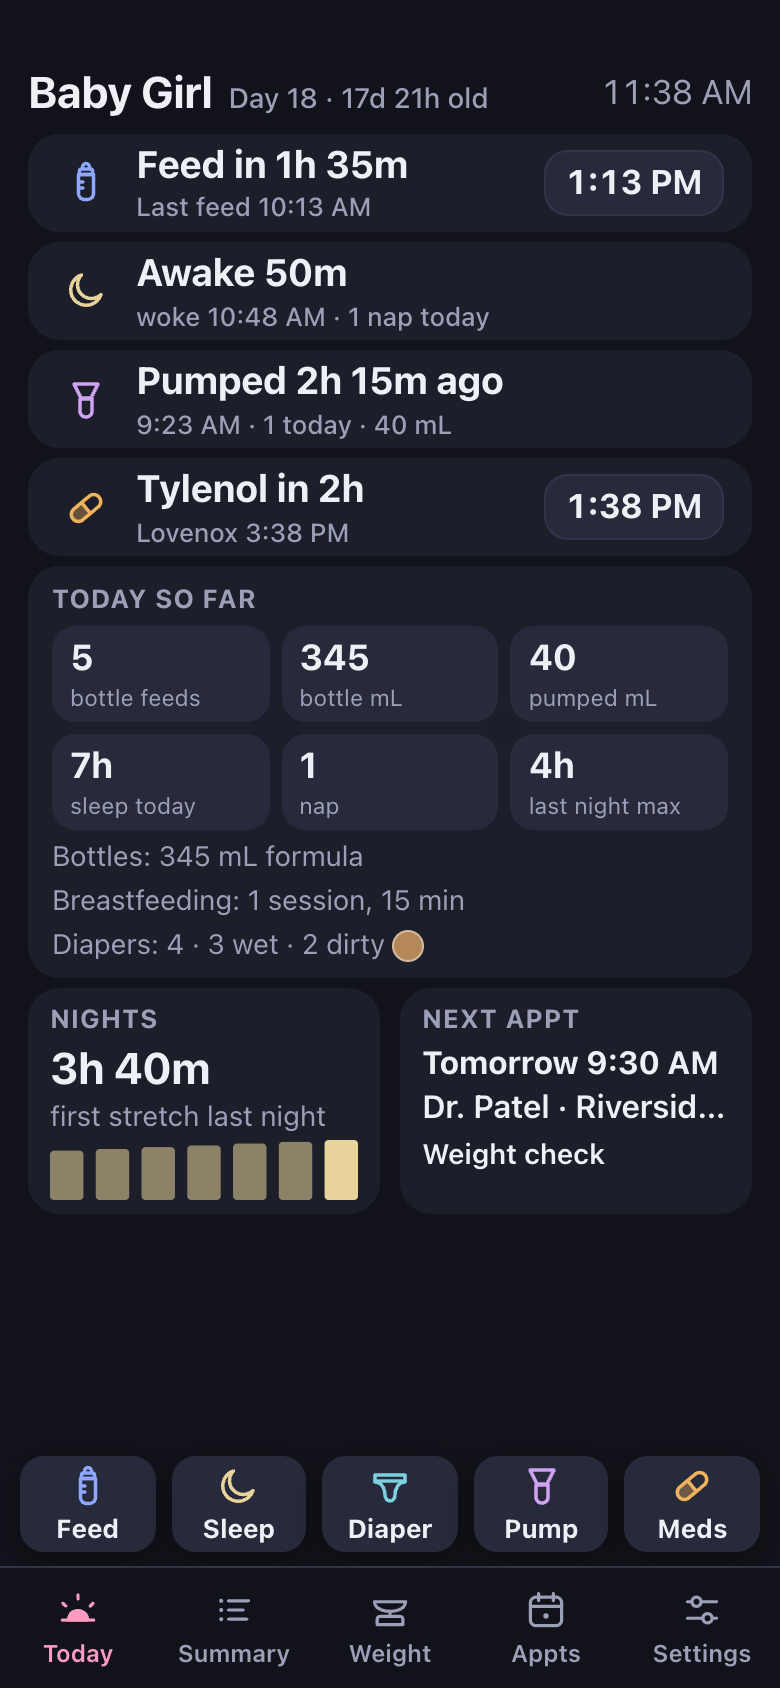
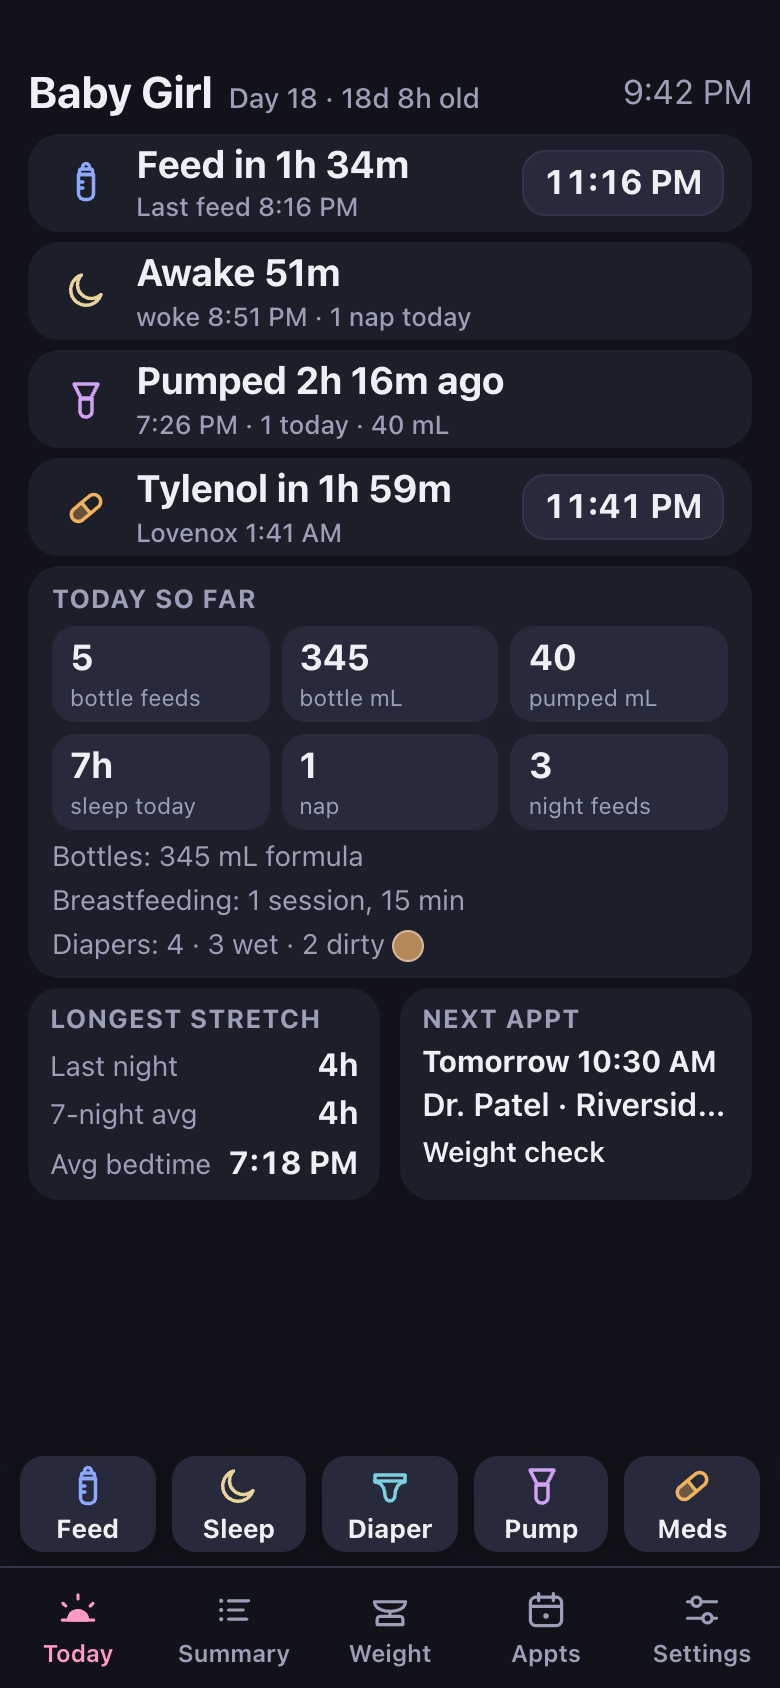
Nights card: last night, 7-night average, average bedtime; night feeds tile; seed honours DST; release notes 1.25

diff --git a/src/components/SleepDiary.tsx b/src/components/SleepDiary.tsx
@@ -99,27 +99,23 @@ export function SleepDiary() {
   );
 }
 
-/** Today's small card: the first stretch of each of the last seven finished nights. */
+/** Today's trend card: last night's longest stretch, its 7-night average, and the average bedtime. */
 export function NightsCard({ onOpen }: { onOpen: () => void }) {
   const { entries, settings } = useStore();
   const now = useNow(60_000);
   const win = settings.night_sleep ?? DEFAULT_NIGHT_SLEEP;
-  const keys = nightsBack(lastCompletedNight(now, win), 7).reverse();
-  const vals = keys.map((k) => nightStats(entries, k, now).firstStretchMs);
-  const latest = vals[vals.length - 1];
-  const max = Math.max(...vals, 1);
-  const W = 150, H = 30, gap = 6, bw = (W - gap * (keys.length - 1)) / keys.length;
+  const last = lastCompletedNight(now, win);
+  const keys = nightsBack(last, 7);
+  const longest = keys.map((k) => nightStats(entries, k, now)).filter((s) => s.bedtime !== null).map((s) => s.longestMs);
+  const lastNight = nightStats(entries, last, now).longestMs;
+  const avg = longest.length ? longest.reduce((a, b) => a + b, 0) / longest.length : 0;
+  const bed = weekSummary(entries, keys, now, win).bedtimeMin;
   return (
-    <div className="card compact pressable" onClick={onOpen}>
-      <h3>Nights</h3>
-      <div style={{ fontSize: 22, fontWeight: 700, lineHeight: 1.1 }}>{latest ? fmtDur(latest) : '—'}</div>
-      <div className="muted small">first stretch last night</div>
-      <svg width="100%" viewBox={`0 0 ${W} ${H}`} preserveAspectRatio="none" aria-label="First stretch of each of the last seven nights" role="img" style={{ display: 'block', height: H }}>
-        {vals.map((v, i) => {
-          const h = v ? Math.max(3, (v / max) * H) : 2;
-          return <rect key={keys[i]} x={i * (bw + gap)} y={H - h} width={bw} height={h} rx={2} fill={v ? 'var(--t-sleep)' : 'var(--border)'} opacity={i === vals.length - 1 ? 1 : 0.55} />;
-        })}
-      </svg>
+    <div className="card compact pressable nights" onClick={onOpen}>
+      <h3>Longest stretch</h3>
+      <div className="kv"><span>Last night</span><b>{lastNight ? fmtDur(lastNight) : '—'}</b></div>
+      <div className="kv"><span>7-night avg</span><b>{avg ? fmtDur(avg) : '—'}</b></div>
+      <div className="kv"><span>Avg bedtime</span><b>{bed != null ? fmtEveningMinutes(bed) : '—'}</b></div>
     </div>
   );
 }

diff --git a/docs/release-notes/index.html b/docs/release-notes/index.html
@@ -90,7 +90,7 @@
     <h1>bébé <span>tracker</span></h1>
     <p class="lede">A shared logbook for a newborn's feeds, diapers, pumping and mom's meds. Two phones, one live dataset, built for one-handed use at 3 am. This page follows how it changed over its first ten days.</p>
     <div class="facts">
-      <span><b>62</b> releases</span>
+      <span><b>63</b> releases</span>
       <span><b>58</b> days</span>
       <span><b>5</b> tabs</span>
       <span><b>45</b> automated tests</span>
@@ -537,6 +537,20 @@
         <div class="shots">
           <figure class="phone"><div class="screen"><img src="shots/sheet-wake.png" alt="The Woke up sheet: fell asleep 9:26 PM, Nap or Night, woke up now, slept 10m, and a Woke up button." loading="lazy"></div><figcaption><b>Woke up</b>Both times, one button.</figcaption></figure>
           <figure class="phone"><div class="screen"><img src="shots/sheet-feed.png" alt="The Feed sheet with Formula selected and 100 mL already filled in, with chips from 90 to 130 mL." loading="lazy"></div><figcaption><b>Feed</b>Starts at 100 mL.</figcaption></figure>
+        </div>
+      </div>
+    </article>
+
+    <article class="release">
+      <div class="stamp"><div class="ver">1.25</div><div class="when">Sun Nov 8 · night</div></div>
+      <div class="body">
+        <h2>Nights at a glance</h2>
+        <ul class="notes">
+          <li><b>A trend card on Today.</b> The Nights card now reads like a scoreboard: last night's longest stretch, the average over the last seven nights, and the average bedtime. Tap it for the full diary.</li>
+          <li><b>No double counting.</b> The longest stretch used to show on both the card and a tile; the tile now shows last night's night feeds.</li>
+        </ul>
+        <div class="shots">
+          <figure class="phone"><div class="screen"><img src="shots/today.png" alt="Today with the Longest stretch card: last night 4h, 7-night average 4h, average bedtime 7:18 PM, and a night feeds tile." loading="lazy"></div><figcaption><b>Today</b>Last night, the week, bedtime.</figcaption></figure>
         </div>
       </div>
     </article>

diff --git a/src/screens/Today.tsx b/src/screens/Today.tsx
@@ -10,7 +10,7 @@ import { MEDS, STOOL_COLORS, medLabel, allMeds, type Med } from '../types';
 import { volValue, volLabel, fmtMl, fmtWeight, fmtPct, pctChange } from '../lib/units';
 import { WeightChart } from '../components/WeightChart';
 import { NightsCard } from '../components/SleepDiary';
-import { placeTrail, openSleep, lastWake, sleepMsOnDay, napsOnDay, nightStats, nightForToday, loggedNights, DEFAULT_NIGHT_SLEEP } from '../lib/sleep';
+import { placeTrail, openSleep, lastWake, sleepMsOnDay, napsOnDay, nightStats, nightForToday, loggedNights, nightFeeds, lastCompletedNight, DEFAULT_NIGHT_SLEEP } from '../lib/sleep';
 import { Icon } from '../components/Icon';
 
 /** "2:04 PM", or "Mon 2:04 PM" when the saved data is from another day. */
@@ -234,7 +234,7 @@ export function Today() {
           {sleepOn && (<>
             <div className="stat"><span className="v">{fmtDur(sleptToday)}</span><span className="k">sleep today</span></div>
             <div className="stat"><span className="v">{naps}</span><span className="k">{naps === 1 ? 'nap' : 'naps'}</span></div>
-            <div className="stat"><span className="v">{night && night.longestMs ? fmtDur(night.longestMs) : '—'}</span><span className="k">{nightPick?.tonight ? 'tonight max' : 'last night max'}</span></div>
+            <div className="stat"><span className="v">{showNights ? nightFeeds(entries, lastCompletedNight(now, settings.night_sleep ?? DEFAULT_NIGHT_SLEEP), now, settings.night_sleep ?? DEFAULT_NIGHT_SLEEP).length : night && night.longestMs ? fmtDur(night.longestMs) : '—'}</span><span className="k">{showNights ? 'night feeds' : nightPick?.tonight ? 'tonight max' : 'last night max'}</span></div>
           </>)}
           {settings.diapers_enabled !== false && !sleepOn && (<>
             <div className="stat"><span className="v">{s.diapers}</span><span className="k">diapers</span></div>

diff --git a/src/styles.css b/src/styles.css
@@ -252,3 +252,7 @@ table.compare td:nth-child(2) { font-weight: 700; }
 .screen.today.checking .duo .card:first-child svg, .screen.today.checking .swatch { visibility: hidden; }
 @keyframes shimmer { from { background-position: 100% 0; } to { background-position: 0 0; } }
 @media (prefers-reduced-motion: reduce) { .screen.today.checking * { animation: none !important; } }
+
+/* Nights trend card on Today */
+.card.nights .kv { display: flex; justify-content: space-between; align-items: baseline; gap: 6px; font-size: 14px; color: var(--muted); white-space: nowrap; }
+.card.nights .kv b { color: var(--text); font-size: 16px; font-weight: 700; font-variant-numeric: tabular-nums; }

diff --git a/AGENTS.md b/AGENTS.md
@@ -29,7 +29,7 @@ The repo is public (github.com/esp8879/bebe-tracker). Commit as `esp8879 <695531
 - `npm run deploy` = build + `firebase deploy --only hosting,firestore`
 
 ## Screens
-Tabs: Today · Summary (By day / All entries) · Weight · Appts · Settings. Summary has a third view, Sleep (`src/components/SleepDiary.tsx`): a 14-night diary (6 PM–8 AM rows, bars and feed dots) and a last-7-vs-previous-7 table. Once 3 nights are logged, Today's weight card becomes the `NightsCard` (first stretch of the last 7 nights), which opens Summary on Sleep via `useNav().setSummaryMode`. Today must fit an iPhone without scrolling (measure at 393x759, an iPhone 15 minus its insets) in every combination of tracked types: feed card, sleep card, pump card, meds card (with sleep on, several med rows fold into one, so four timer rows max; `roomy` spacing at three rows or fewer when diapers aren't also on), Today so far, weight + next appointment side by side, quick-log dock above the tab bar. `settings.today_mode` (`countdown` | `last`) switches the pump and meds cards between countdowns from intervals and last-time-only rows (`recentDoses`, meds dosed in the last 24 hours); `settings.pump_interval_min` is optional. `settings.night_feeds` ({enabled, interval_min, start, end}, household-local HH:MM, may wrap midnight) gives the feed timer a second interval; it is chosen by when the LAST feed started (`isNightAt` in `src/lib/timers.ts`), never by when the next one lands. Today's feed line then reads "Last feed 10:15 PM · night, 4h". `settings.meds_enabled === false` hides the meds card, greys the dock's Meds button (tap shows a toast) and hides the med interval and rotation settings; history and intervals are kept. The dock lists only tracked types, in a fixed order (Feed, Sleep, Diaper, Pump, Meds); while she's asleep Sleep reads "Woke up" and opens the wake-up sheet (fell-asleep and woke-up times, woke-up defaulting to now; "Woke up" saves). With sleep on, diaper counts move from tiles to a line under them. `settings.sleep_enabled === false` hides sleep everywhere but All entries and exports. `settings.diapers_enabled === false` does the same for diapers: hides the diaper tiles on Today and the diaper columns in the Summary table, greys the dock's Diaper button; entries stay in All entries and exports.
+Tabs: Today · Summary (By day / All entries) · Weight · Appts · Settings. Summary has a third view, Sleep (`src/components/SleepDiary.tsx`): a 14-night diary (6 PM–8 AM rows, bars and feed dots) and a last-7-vs-previous-7 table. Once 3 nights are logged, Today's weight card becomes the `NightsCard` (last night's longest stretch, its 7-night average and the average bedtime; the third tile then shows last night's night feeds instead of repeating the longest stretch), which opens Summary on Sleep via `useNav().setSummaryMode`. Today must fit an iPhone without scrolling (measure at 393x759, an iPhone 15 minus its insets) in every combination of tracked types: feed card, sleep card, pump card, meds card (with sleep on, several med rows fold into one, so four timer rows max; `roomy` spacing at three rows or fewer when diapers aren't also on), Today so far, weight + next appointment side by side, quick-log dock above the tab bar. `settings.today_mode` (`countdown` | `last`) switches the pump and meds cards between countdowns from intervals and last-time-only rows (`recentDoses`, meds dosed in the last 24 hours); `settings.pump_interval_min` is optional. `settings.night_feeds` ({enabled, interval_min, start, end}, household-local HH:MM, may wrap midnight) gives the feed timer a second interval; it is chosen by when the LAST feed started (`isNightAt` in `src/lib/timers.ts`), never by when the next one lands. Today's feed line then reads "Last feed 10:15 PM · night, 4h". `settings.meds_enabled === false` hides the meds card, greys the dock's Meds button (tap shows a toast) and hides the med interval and rotation settings; history and intervals are kept. The dock lists only tracked types, in a fixed order (Feed, Sleep, Diaper, Pump, Meds); while she's asleep Sleep reads "Woke up" and opens the wake-up sheet (fell-asleep and woke-up times, woke-up defaulting to now; "Woke up" saves). With sleep on, diaper counts move from tiles to a line under them. `settings.sleep_enabled === false` hides sleep everywhere but All entries and exports. `settings.diapers_enabled === false` does the same for diapers: hides the diaper tiles on Today and the diaper columns in the Summary table, greys the dock's Diaper button; entries stay in All entries and exports.
 
 ## Conventions
 - iOS 26 home-screen apps blur a band ~40pt below the status bar (`black-translucent`). Screens start at `env(safe-area-inset-top) + 30px` or more; don't put content higher.

diff --git a/CLAUDE.md b/CLAUDE.md
@@ -29,7 +29,7 @@ The repo is public (github.com/esp8879/bebe-tracker). Commit as `esp8879 <695531
 - `npm run deploy` = build + `firebase deploy --only hosting,firestore`
 
 ## Screens
-Tabs: Today · Summary (By day / All entries) · Weight · Appts · Settings. Summary has a third view, Sleep (`src/components/SleepDiary.tsx`): a 14-night diary (6 PM–8 AM rows, bars and feed dots) and a last-7-vs-previous-7 table. Once 3 nights are logged, Today's weight card becomes the `NightsCard` (first stretch of the last 7 nights), which opens Summary on Sleep via `useNav().setSummaryMode`. Today must fit an iPhone without scrolling (measure at 393x759, an iPhone 15 minus its insets) in every combination of tracked types: feed card, sleep card, pump card, meds card (with sleep on, several med rows fold into one, so four timer rows max; `roomy` spacing at three rows or fewer when diapers aren't also on), Today so far, weight + next appointment side by side, quick-log dock above the tab bar. `settings.today_mode` (`countdown` | `last`) switches the pump and meds cards between countdowns from intervals and last-time-only rows (`recentDoses`, meds dosed in the last 24 hours); `settings.pump_interval_min` is optional. `settings.night_feeds` ({enabled, interval_min, start, end}, household-local HH:MM, may wrap midnight) gives the feed timer a second interval; it is chosen by when the LAST feed started (`isNightAt` in `src/lib/timers.ts`), never by when the next one lands. Today's feed line then reads "Last feed 10:15 PM · night, 4h". `settings.meds_enabled === false` hides the meds card, greys the dock's Meds button (tap shows a toast) and hides the med interval and rotation settings; history and intervals are kept. The dock lists only tracked types, in a fixed order (Feed, Sleep, Diaper, Pump, Meds); while she's asleep Sleep reads "Woke up" and opens the wake-up sheet (fell-asleep and woke-up times, woke-up defaulting to now; "Woke up" saves). With sleep on, diaper counts move from tiles to a line under them. `settings.sleep_enabled === false` hides sleep everywhere but All entries and exports. `settings.diapers_enabled === false` does the same for diapers: hides the diaper tiles on Today and the diaper columns in the Summary table, greys the dock's Diaper button; entries stay in All entries and exports.
+Tabs: Today · Summary (By day / All entries) · Weight · Appts · Settings. Summary has a third view, Sleep (`src/components/SleepDiary.tsx`): a 14-night diary (6 PM–8 AM rows, bars and feed dots) and a last-7-vs-previous-7 table. Once 3 nights are logged, Today's weight card becomes the `NightsCard` (last night's longest stretch, its 7-night average and the average bedtime; the third tile then shows last night's night feeds instead of repeating the longest stretch), which opens Summary on Sleep via `useNav().setSummaryMode`. Today must fit an iPhone without scrolling (measure at 393x759, an iPhone 15 minus its insets) in every combination of tracked types: feed card, sleep card, pump card, meds card (with sleep on, several med rows fold into one, so four timer rows max; `roomy` spacing at three rows or fewer when diapers aren't also on), Today so far, weight + next appointment side by side, quick-log dock above the tab bar. `settings.today_mode` (`countdown` | `last`) switches the pump and meds cards between countdowns from intervals and last-time-only rows (`recentDoses`, meds dosed in the last 24 hours); `settings.pump_interval_min` is optional. `settings.night_feeds` ({enabled, interval_min, start, end}, household-local HH:MM, may wrap midnight) gives the feed timer a second interval; it is chosen by when the LAST feed started (`isNightAt` in `src/lib/timers.ts`), never by when the next one lands. Today's feed line then reads "Last feed 10:15 PM · night, 4h". `settings.meds_enabled === false` hides the meds card, greys the dock's Meds button (tap shows a toast) and hides the med interval and rotation settings; history and intervals are kept. The dock lists only tracked types, in a fixed order (Feed, Sleep, Diaper, Pump, Meds); while she's asleep Sleep reads "Woke up" and opens the wake-up sheet (fell-asleep and woke-up times, woke-up defaulting to now; "Woke up" saves). With sleep on, diaper counts move from tiles to a line under them. `settings.sleep_enabled === false` hides sleep everywhere but All entries and exports. `settings.diapers_enabled === false` does the same for diapers: hides the diaper tiles on Today and the diaper columns in the Summary table, greys the dock's Diaper button; entries stay in All entries and exports.
 
 ## Conventions
 - iOS 26 home-screen apps blur a band ~40pt below the status bar (`black-translucent`). Screens start at `env(safe-area-inset-top) + 30px` or more; don't put content higher.
